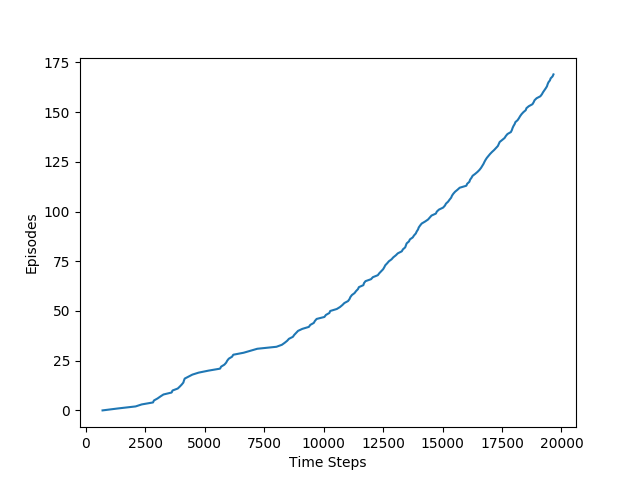
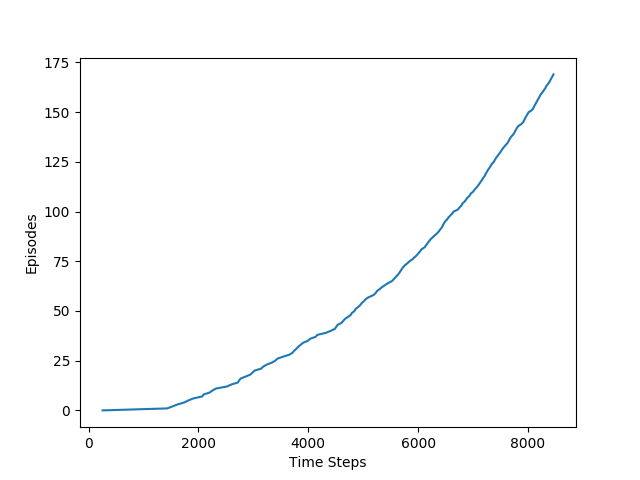
fix few bug

diff --git a/Chapter6/Windy_GridWorld.py b/Chapter6/Windy_GridWorld.py
@@ -18,7 +18,7 @@ class Windy_Grid_World(object):
         self.wind = np.array([0, 0, 0, 1, 1, 1, 2, 2, 1, 0])    # the strength of wind for every column
 
     def epsilon_greedy(self, q_value, state):
-        rand_num = np.random.randn()
+        rand_num = np.random.rand()
         if rand_num < self.epsilon:
             return np.random.choice(self.actions)
         else:
